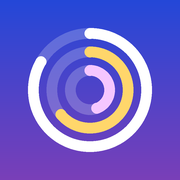
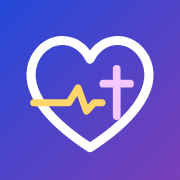
Iconiță nouă: inimă, puls și cruce
Claude-Session: https://claude.ai/code/session_01K9DNrChVD12TRafrxVnHDM

diff --git a/index.html b/index.html
@@ -175,7 +175,7 @@ ul.q{margin:0;padding-left:18px;font-size:.9rem;display:flex;flex-direction:colu
 body.onb .tabs{display:none}
 .welcome{min-height:calc(100vh - 80px);min-height:calc(100dvh - 80px);display:flex;flex-direction:column;justify-content:center;align-items:center;text-align:center;gap:14px}
 .wlogo{width:120px;height:120px;border-radius:30px;background:linear-gradient(150deg,var(--hero1),var(--hero2));display:grid;place-items:center;margin-bottom:6px;box-shadow:0 12px 30px rgba(36,72,216,.25)}
-.wlogo svg{width:84px;height:84px}
+.wlogo svg{width:92px;height:92px}
 .welcome h1.brand{font-size:3rem}
 .wlist{list-style:none;margin:10px 0;padding:0;display:flex;flex-direction:column;gap:10px;text-align:left;width:100%;max-width:340px}
 .wlist li{background:var(--surface);border:1px solid var(--line);border-radius:14px;padding:12px 14px;font-size:.95rem}
@@ -964,7 +964,9 @@ function renderStart(){
   if(!editMode&&!draft.started){
     $("startTitle").textContent="";$("startSub").textContent="";$("startTitle").parentNode.hidden=true;
     $("onb").innerHTML=`<div class="welcome">
-      <div class="wlogo" aria-hidden="true"><svg viewBox="0 0 112 112">${[[46,"#FFFFFF",.83],[33,"#FFD66B",.64],[20,"#F5C6FF",.45]].map(([r,c,f])=>{const C=2*Math.PI*r;return`<circle cx="56" cy="56" r="${r}" fill="none" stroke="rgba(255,255,255,.18)" stroke-width="9"/><circle cx="56" cy="56" r="${r}" fill="none" stroke="${c}" stroke-width="9" stroke-linecap="round" stroke-dasharray="${C.toFixed(1)}" stroke-dashoffset="${(C*(1-f)).toFixed(1)}" transform="rotate(-90 56 56)"/>`}).join("")}</svg></div>
+      <div class="wlogo" aria-hidden="true"><svg viewBox="40 60 432 400"><path d="M256 420 C 118 330 62 240 100 165 C 135 98 222 98 256 168 C 290 98 377 98 412 165 C 450 240 394 330 256 420 Z" fill="none" stroke="#fff" stroke-width="26" stroke-linejoin="round"/>
+<polyline points="96,292 196,292 222,250 246,316 268,292 290,292" fill="none" stroke="#FFD66B" stroke-width="20" stroke-linecap="round" stroke-linejoin="round"/>
+<path d="M332 196 V 330 M294 238 H 370" stroke="#F5C6FF" stroke-width="22" stroke-linecap="round"/></svg></div>
       <h1 class="brand">Kardia</h1><div class="tagline">Pentru trup și suflet</div>
       <ul class="wlist"><li><b>Mișcare</b> zilnică, doar cu greutatea corpului</li><li><b>Cuvântul</b> lui Dumnezeu, cu planuri de citire</li><li><b>Rugăciune</b> ghidată și lecții pentru începători</li></ul>
       <button class="btn" type="button" id="wStart">Să începem</button>

diff --git a/sw.js b/sw.js
@@ -1,4 +1,4 @@
-const CACHE="kardia-v6";
+const CACHE="kardia-v7";
 const CORE=["./","./index.html","./manifest.webmanifest","./icon-180.png","./icon-192.png","./icon-512.png","./icon-maskable-512.png"];
 self.addEventListener("install",e=>{e.waitUntil(caches.open(CACHE).then(c=>c.addAll(CORE)).then(()=>self.skipWaiting()))});
 self.addEventListener("activate",e=>{e.waitUntil(caches.keys().then(ks=>Promise.all(ks.filter(k=>k!==CACHE).map(k=>caches.delete(k)))).then(()=>self.clients.claim()))});
